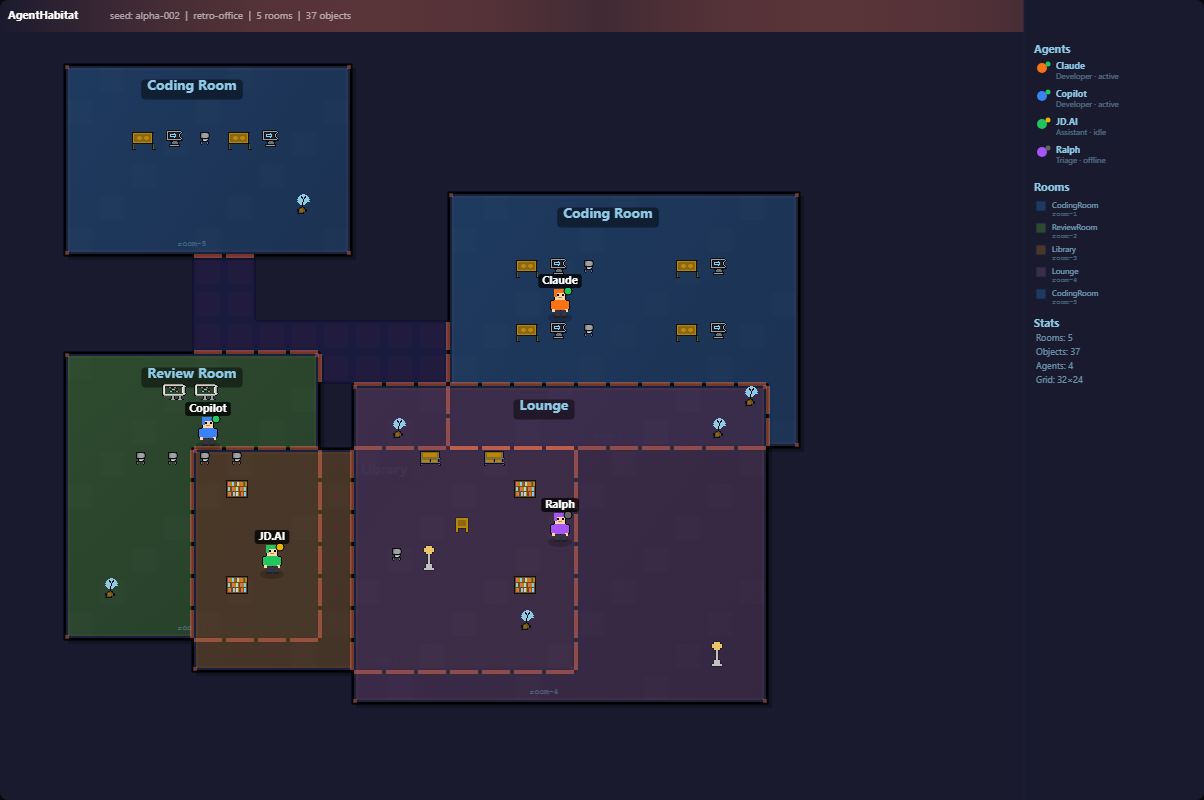
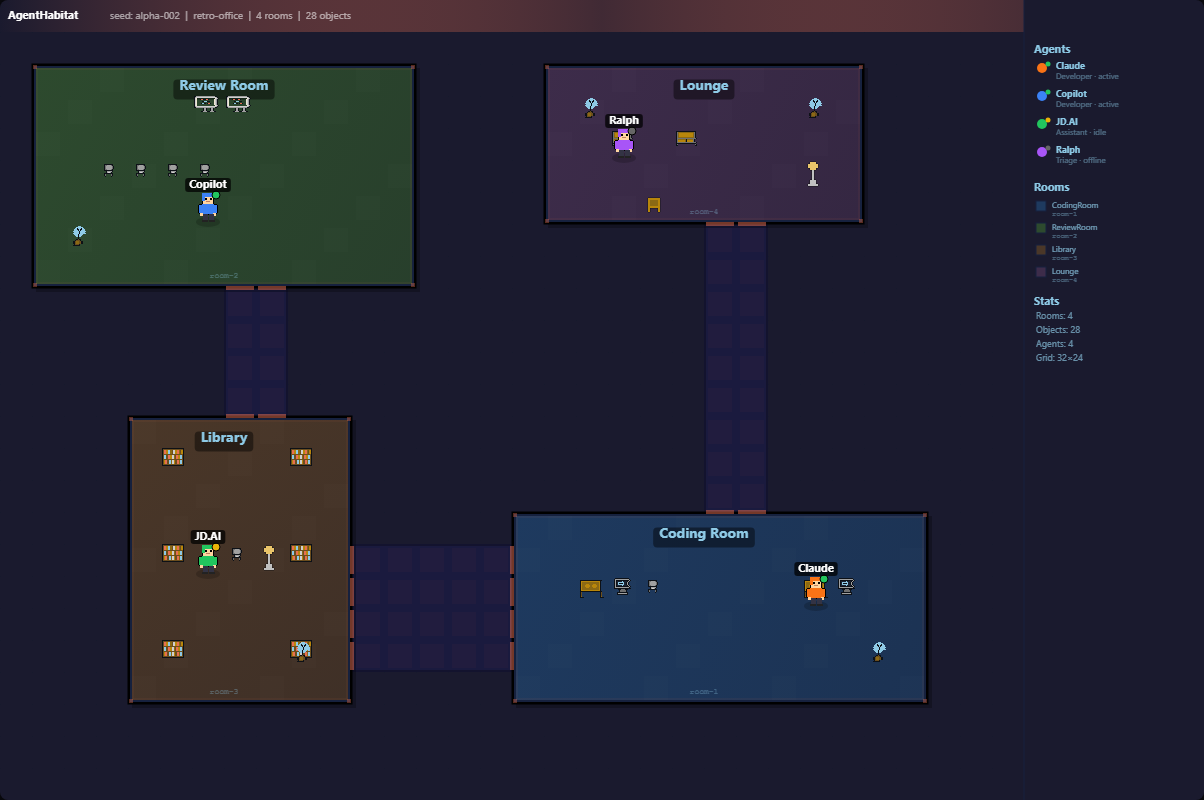
fix: strict no-overlap placement — rooms never placed if overlapping
Root cause: generator was pushing rooms even when placement retries
exhausted (break without guard). Now:
- Required rooms try 3 size reductions with 500 attempts each
- Bonus rooms reduced to 1-2, smaller (5-8 tiles), 300 attempts
- Room is ONLY added if a valid non-overlapping position found
- Fewer bonus rooms to reduce crowding on 32x24 grid

diff --git a/tools/worldgen-renderer.html b/tools/worldgen-renderer.html
@@ -67,34 +67,42 @@ function generateWorld(seed, opts) {
   const rooms = [];
   let id = 1;
   for (const arch of ARCHETYPES) {
-    const w = rng.next(8, 14);
-    const h = rng.next(6, 11);
-    let placed, tries = 0;
-    do {
-      const x = rng.next(1, opts.width - w - 1);
-      const y = rng.next(1, opts.height - h - 1);
-      placed = { id: `room-${id}`, archetype: arch, x, y, w, h, cx: x + Math.floor(w/2), cy: y + Math.floor(h/2) };
-      tries++;
-      if (tries > 300) break;
-    } while (rooms.some(r => overlap(r, placed)));
-    rooms.push(placed);
-    id++;
+    let placed = null, tries = 0;
+    // Try smaller rooms if large ones don't fit
+    for (let sizeAttempt = 0; sizeAttempt < 3 && !placed; sizeAttempt++) {
+      const wMax = Math.max(6, 14 - sizeAttempt * 2);
+      const hMax = Math.max(5, 11 - sizeAttempt * 2);
+      const w = rng.next(6, wMax);
+      const h = rng.next(5, hMax);
+      for (let t = 0; t < 500; t++) {
+        const x = rng.next(1, opts.width - w - 1);
+        const y = rng.next(1, opts.height - h - 1);
+        const candidate = { id: `room-${id}`, archetype: arch, x, y, w, h, cx: x + Math.floor(w/2), cy: y + Math.floor(h/2) };
+        if (!rooms.some(r => overlap(r, candidate))) {
+          placed = candidate;
+          break;
+        }
+      }
+    }
+    if (placed) { rooms.push(placed); id++; }
   }
-  // Add bonus rooms
-  const bonusCount = rng.next(2, 5);
+  // Add bonus rooms (only if they fit cleanly)
+  const bonusCount = rng.next(1, 3);
   for (let i = 0; i < bonusCount; i++) {
     const arch = ARCHETYPES[rng.next(0, ARCHETYPES.length)];
-    const w = rng.next(6, 10);
-    const h = rng.next(5, 8);
-    let placed, tries = 0;
-    do {
+    const w = rng.next(5, 8);
+    const h = rng.next(4, 7);
+    let placed = null;
+    for (let t = 0; t < 300; t++) {
       const x = rng.next(1, opts.width - w - 1);
       const y = rng.next(1, opts.height - h - 1);
-      placed = { id: `room-${id}`, archetype: arch, x, y, w, h, cx: x + Math.floor(w/2), cy: y + Math.floor(h/2) };
-      tries++;
-      if (tries > 200) break;
-    } while (rooms.some(r => overlap(r, placed)));
-    if (tries <= 200) { rooms.push(placed); id++; }
+      const candidate = { id: `room-${id}`, archetype: arch, x, y, w, h, cx: x + Math.floor(w/2), cy: y + Math.floor(h/2) };
+      if (!rooms.some(r => overlap(r, candidate))) {
+        placed = candidate;
+        break;
+      }
+    }
+    if (placed) { rooms.push(placed); id++; }
   }
 
   const walkable = Array.from({length: opts.width}, () => Array(opts.height).fill(false));
